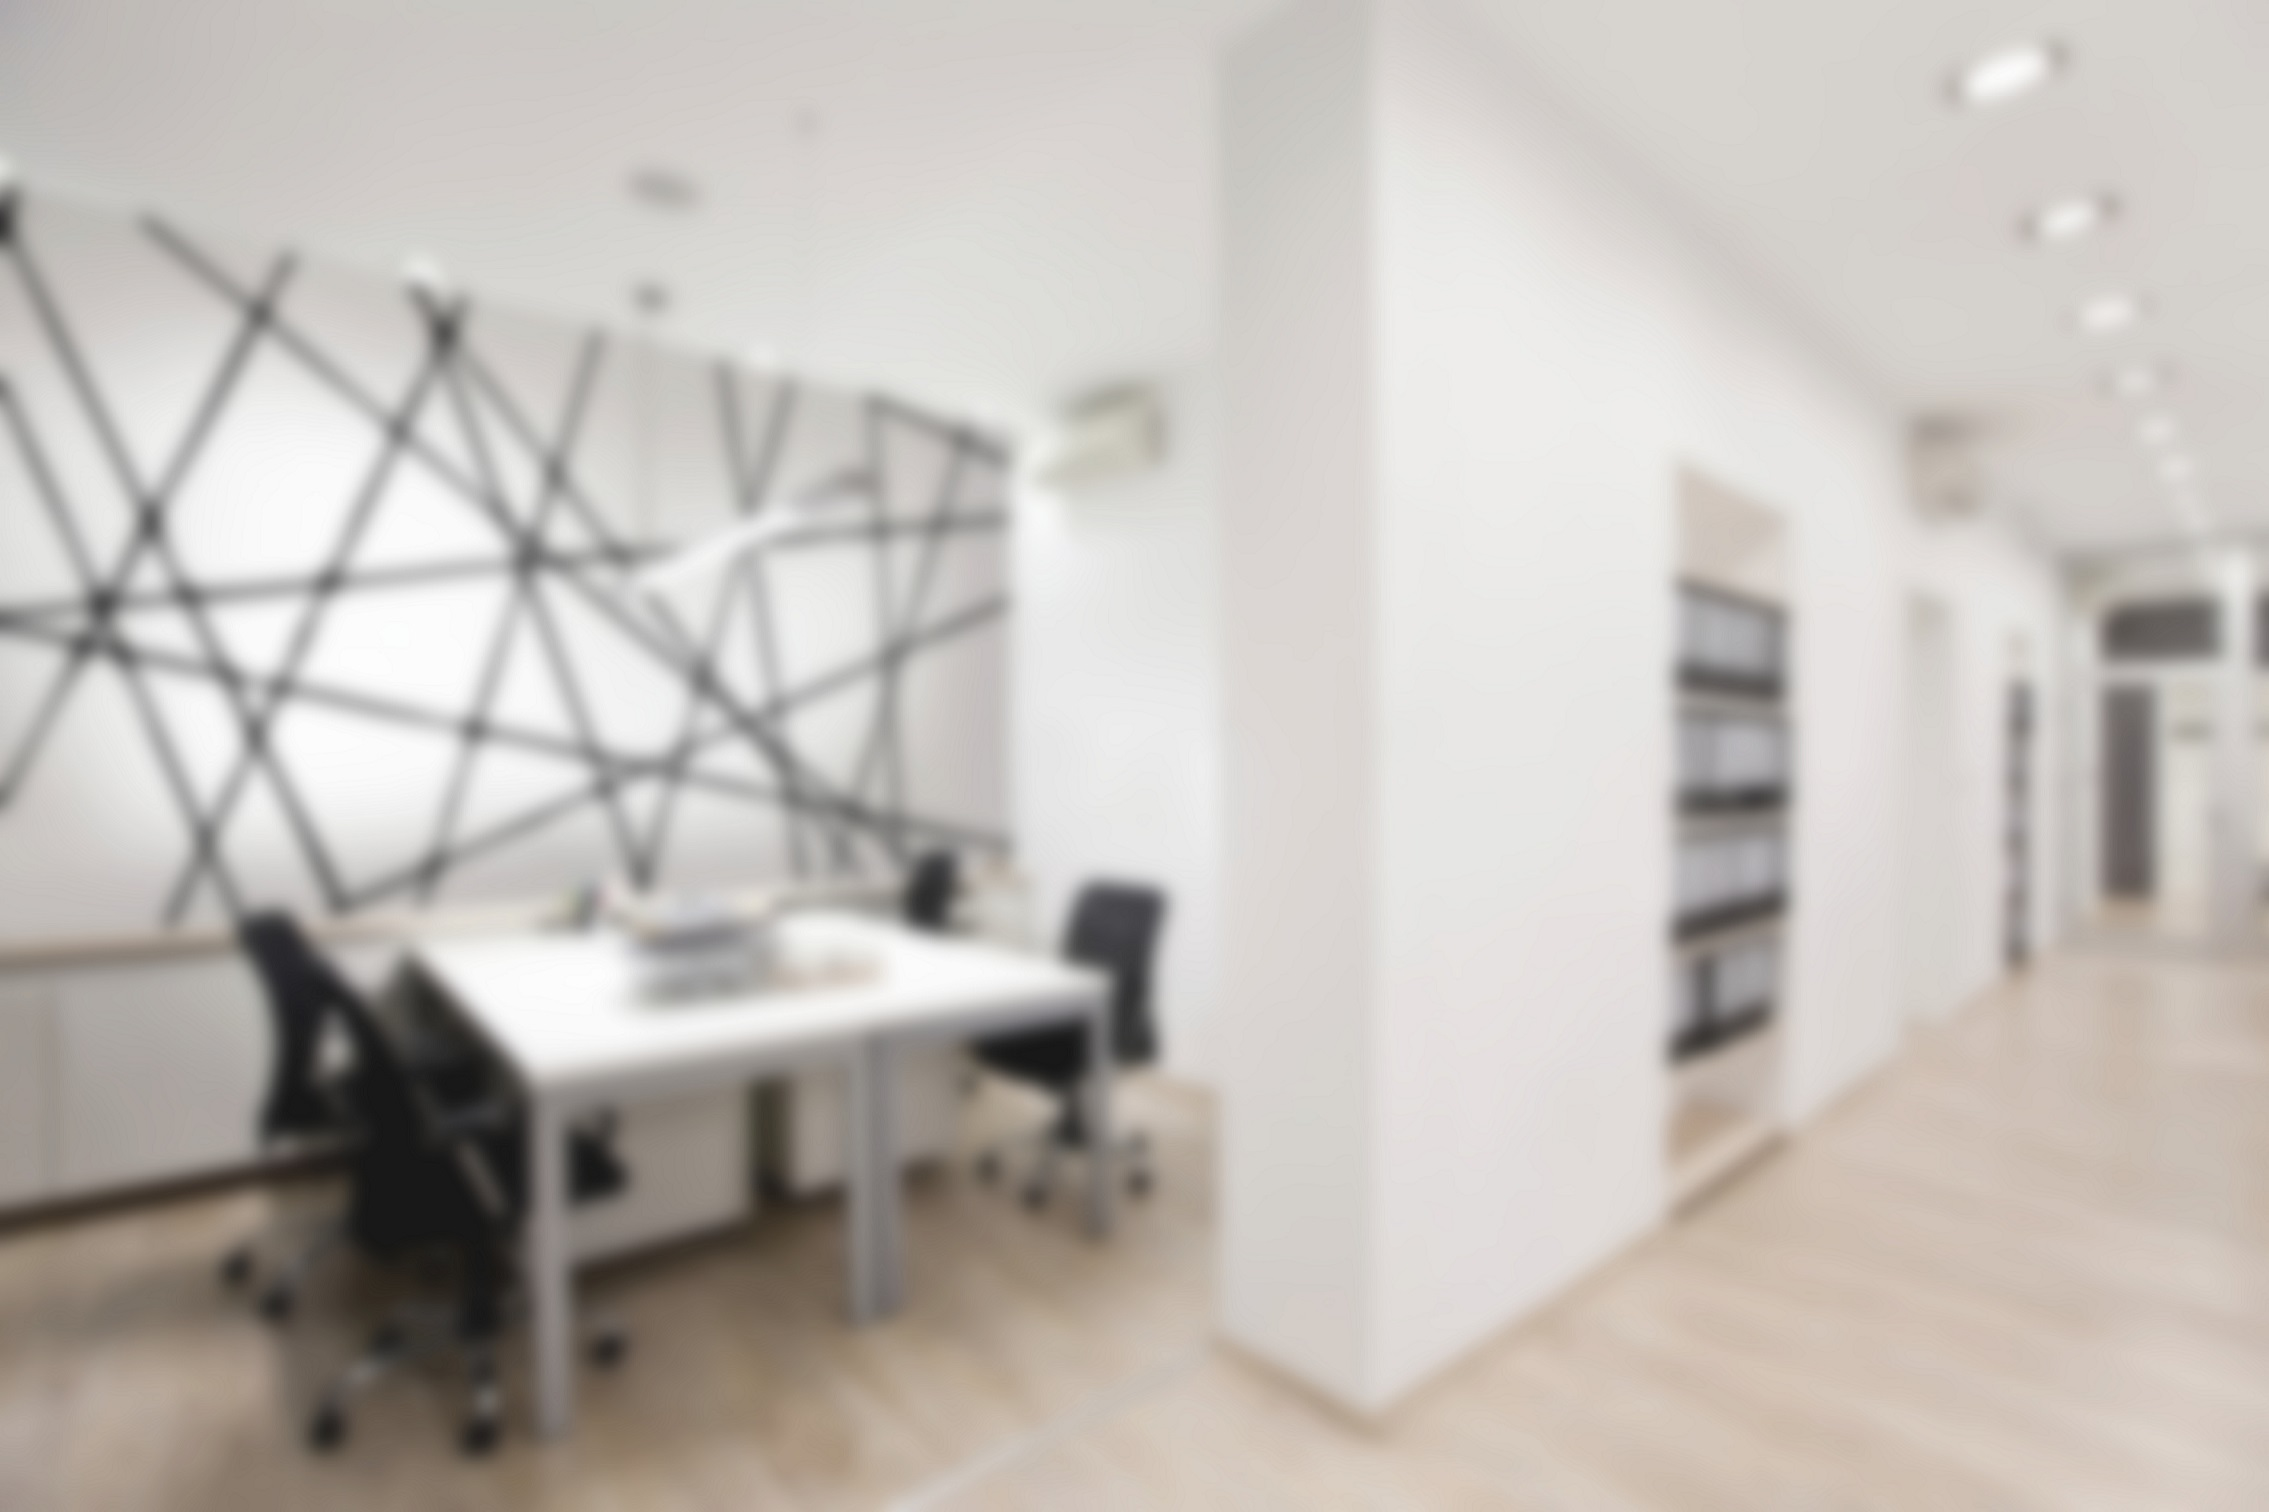
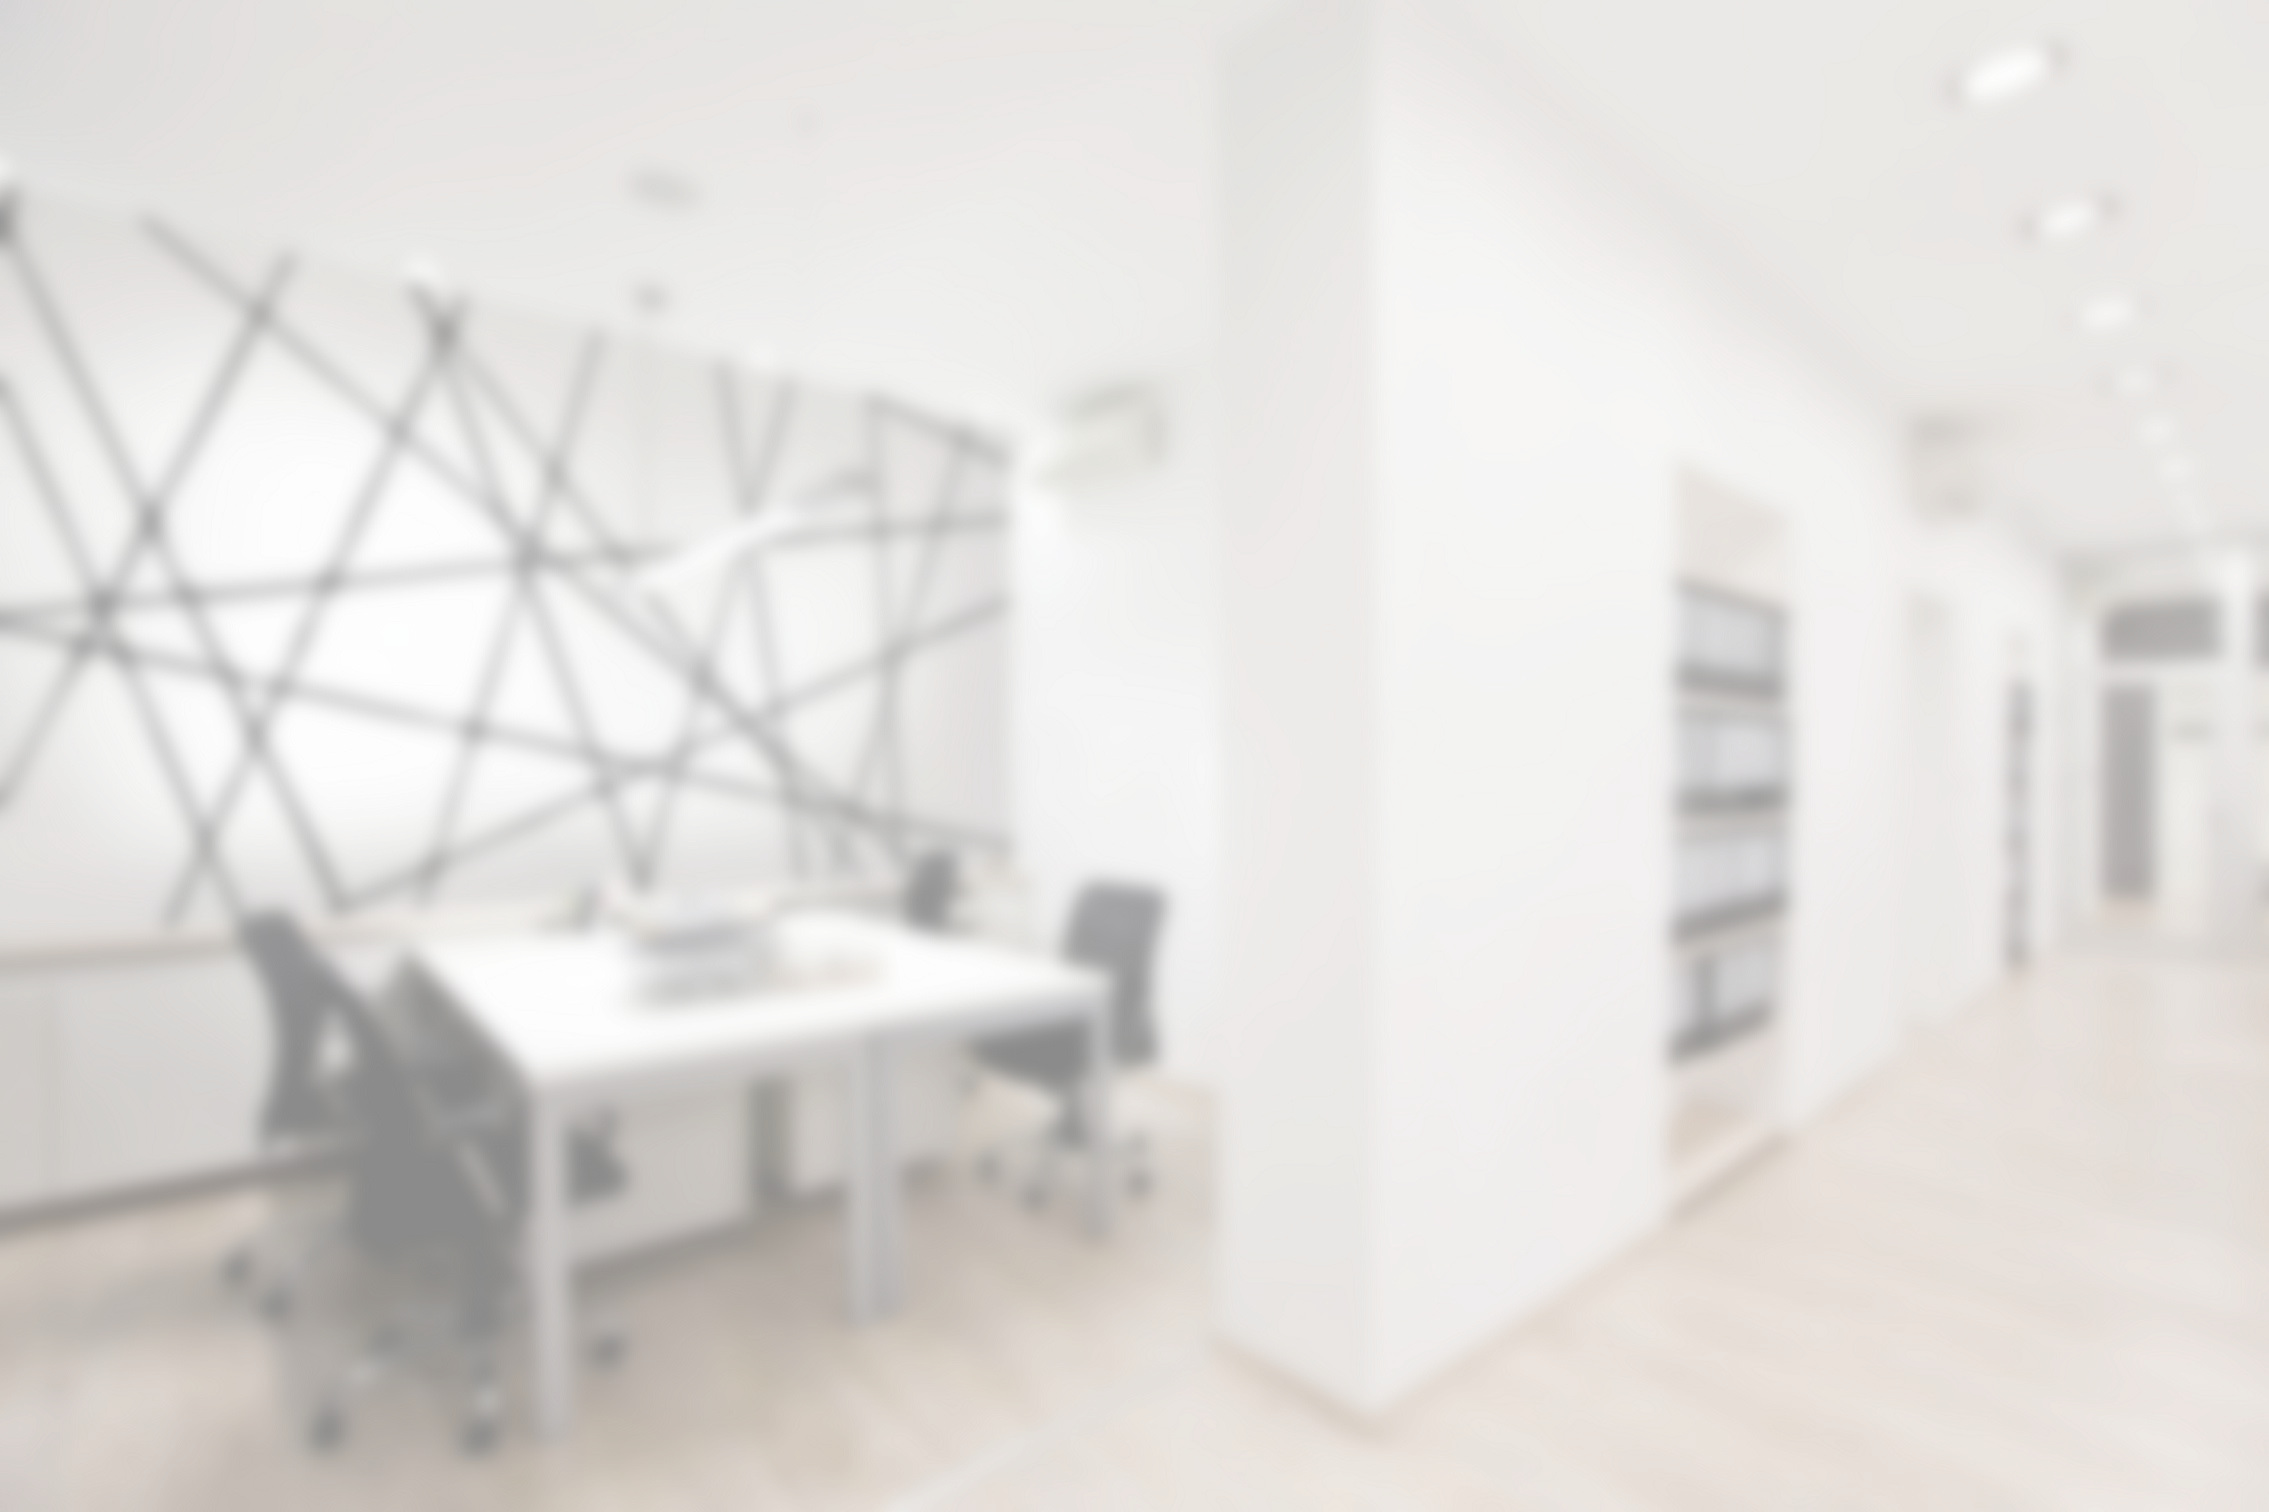
Dodanie stylu do wszyskich stron..
Zrobienie formularza do dodawania klienta
Rozjaśnienie tła, żeby teskt był lepiej widoczny

diff --git a/src/main/java/pl/helpdesk/pages/AgentCompEmployeesAdd.html b/src/main/java/pl/helpdesk/pages/AgentCompEmployeesAdd.html
@@ -7,42 +7,56 @@
 </head>
 <body>
 <wicket:extend>
-<div class="container">
-	<h2>Wpisz poprawne dane, aby dodać pracownika:</h2>
+<div class="container-fluid">
+<div id="tytul_strony">Dodaj współpracownika</div>
+</div>
+<div class="container" >
 	<br />
-			<form wicket:id="creating">
-				<table class="table-striped">
-					<tr>
-						<td>Imię:</td>
-						<td><input type="text" size="30" wicket:id="imie" /></td>
-						<td><font color="B04862"><b><span wicket:id="badname"></span></b></font></td>
-					</tr>
-					<tr>
-						<td>Nazwisko:</td>
-						<td><input type="text" size="30" wicket:id="nazwisko" /></td>
-						<td><font color="B04862"><b><span wicket:id="badsurname"></span></b></font></td>
-					</tr>
-					<tr>
-						<td>E-mail:</td>
-						<td><input type="text" size="30" wicket:id="email" /></td>
-						<td><font color="B04862"><b><span wicket:id="emailExist"></span><span style="color: B04862"
-							wicket:id="bademail"></span></b></font></td>
-					</tr>
-					<tr>
-						<td>Login:</td>
-						<td><input type="text" size="30" wicket:id="login" /></td>
-						<td><font color="B04862"><b><span wicket:id="userExist"></span><span
-							  wicket:id="loginlength"></span></b></font></td>
-					</tr>
-					<tr>
-						<td>Hasło:</td>
-						<td><input type="password" size="30" wicket:id="haslo" /></td>
-						<td><font color="B04862"><b><span wicket:id="passlength"></span></b></font></td>
-					</tr>
-				</table>
-				<input type="submit" class="przycisk" id="przycisk" value="Utwórz" />
+			<form wicket:id="creating" role="form" class="form-horizontal" id="form_dodawanieUsera">
+			<div class="row">
+				<div class="form-group">
+						<label class="col-sm-3 control-label" for="imie">Imię:</label>
+						<div class="col-sm-5"><input type="text" size="40" wicket:id="imie" class="form-control" name="imie" placeholder="Imię"></div>
+						<div class="col-sm-4"><font color="B04862"><b><span wicket:id="badname"></span></b></font></div>
+				</div>
+			</div>
+			<div class="row">		
+				<div class="form-group">
+						<label class="col-sm-3 control-label" for="nazwisko">Nazwisko:</label>
+						<div class="col-sm-5"><input type="text" size="40" wicket:id="nazwisko" class="form-control" name="nazwisko" placeholder="Nazwisko"></div>
+						<div class="col-sm-4"><font color="B04862"><b><span wicket:id="badsurname"></span></b></font></div>
+					</div>
+			</div>		
+			<div class="row">		
+				<div class="form-group">
+						<label class="col-sm-3 control-label" for="email">E-mail:</label>
+						<div class="col-sm-5"><input type="text" size="40" wicket:id="email" class="form-control" name="email" placeholder="E-mail"></div>
+						<div class="col-sm-4"><font color="B04862"><b><span wicket:id="emailExist"></span>
+						<span wicket:id="bademail"></span></b></font></div>
+											</div>
+			</div>		
+			<div class="row">		
+				<div class="form-group">			
+						<label class="col-sm-3 control-label" for="login">Login:</label>
+						<div class="col-sm-5"><input type="text" size="40" wicket:id="login" class="form-control" name="login" placeholder="Login"></div>
+						<div class="col-sm-4"><font color="B04862"><b><span wicket:id="userExist"></span>
+						<span wicket:id="loginlength"></span></b></font></div>
+											</div>
+			</div>		
+			<div class="row">		
+				<div class="form-group">
+						<label class="col-sm-3 control-label" for="haslo">Hasło:</label>
+						<div class="col-sm-5"><input type="password" size="40" wicket:id="haslo" class="form-control" name="haslo" placeholder="Hasło"></div>
+						<div class="col-sm-4"><font color="B04862"><b><span wicket:id="passlength"></span></b></font></div>
+											</div>
+			</div>		
+		<br />
+		<div class="row">	
+		<div class="col-sm-3"></div>
+		<div class="col-sm-5"><font size="6"><span wicket:id="przeszlo"></span></font></div>
+		<div class="col-sm-4"><input type="submit" class="przycisk" id="przycisk" value="Utwórz" /></div>
+		</div>
 			</form>
-			<br /> <font size="6"><span wicket:id="przeszlo"></span></font>
 
 </div>
 </wicket:extend>

diff --git a/src/main/java/pl/helpdesk/pages/AgentFinalPage.html b/src/main/java/pl/helpdesk/pages/AgentFinalPage.html
@@ -1,4 +1,4 @@
-<!DOCTYPE html>
+<?xml version="1.0" encoding="UTF-8"?><!DOCTYPE html>
 <html>
 <head>
 <meta charset="UTF-8">
@@ -6,8 +6,11 @@
 </head>
 <body>
 <wicket:extend>
+<div class="container-fluid">
+<div id="tytul_strony">Witaj w panelu Przedstawiciela, <span wicket:id="username" id="msg"></span></div>
+</div>
 <div class="container">
-To jest Strona po zalogowaniu przedstawiciela
+To jest Strona po zalogowaniu przedstwawiciela
 </div>
 </wicket:extend>
 </body>

diff --git a/src/main/webapp/komponenty.css b/src/main/webapp/komponenty.css
@@ -13,10 +13,14 @@ and open the template in the editor.
 body{
  background-image:url("biuro.jpg");
  font-family: 'Josefin Sans', sans-serif;
-//background-size: 100%;
-background-position: center;
-background-attachment: fixed;
-background-repeat: no-repeat;
+ background-position: center;
+ background-attachment: fixed;
+ background-repeat: no-repeat;
+}
+
+#form_dodawanieUsera{
+	font-size:18px;
+    font-family: 'Josefin Sans', sans-serif;
 }
 
 .przycisk{

diff --git a/src/main/java/pl/helpdesk/pages/MyIssue.html b/src/main/java/pl/helpdesk/pages/MyIssue.html
@@ -1,4 +1,4 @@
-<!DOCTYPE html>
+<?xml version="1.0" encoding="UTF-8"?><!DOCTYPE html>
 <html>
 <head>
 <meta charset="UTF-8">
@@ -6,6 +6,9 @@
 </head>
 <body>
 <wicket:extend>
+<div class="container-fluid">
+<div id="tytul_strony">Moje ogłoszenia</div>
+</div>
 <div class="container">
 <span wicket:id="alert"></span>
 <button type="button" class="btn btn-success" wicket:id="addIssue">Dodaj nowe zgłoszenie</button>

diff --git a/src/main/java/pl/helpdesk/pages/EmployeeFinalPage.html b/src/main/java/pl/helpdesk/pages/EmployeeFinalPage.html
@@ -1,4 +1,4 @@
-<!DOCTYPE html>
+<?xml version="1.0" encoding="UTF-8"?><!DOCTYPE html>
 <html>
 <head>
 <meta charset="UTF-8">
@@ -6,6 +6,9 @@
 </head>
 <body>
 <wicket:extend>
+<div class="container-fluid">
+<div id="tytul_strony">Witaj w panelu Pracownika, <span wicket:id="username" id="msg"></span></div>
+</div>
 <div class="container">
 To jest Strona po zalogowaniu pracownika
 </div>

diff --git a/src/main/java/pl/helpdesk/pages/ClientFinalPage.html b/src/main/java/pl/helpdesk/pages/ClientFinalPage.html
@@ -1,4 +1,4 @@
-<!DOCTYPE html>
+<?xml version="1.0" encoding="UTF-8"?><!DOCTYPE html>
 <html>
 <head>
 <meta charset="UTF-8">
@@ -6,6 +6,9 @@
 </head>
 <body>
 <wicket:extend>
+<div class="container-fluid">
+<div id="tytul_strony">Witaj w panelu Klienta, <span wicket:id="username" id="msg"></span></div>
+</div>
 <div class="container">
 To jest Strona po zalogowaniu klienta
 </div>

diff --git a/src/main/java/pl/helpdesk/pages/AdminFinalPage.html b/src/main/java/pl/helpdesk/pages/AdminFinalPage.html
@@ -7,7 +7,7 @@
 <body>
 <wicket:extend>
 <div class="container-fluid">
-<div id="tytul_strony">Witaj, <span wicket:id="username" id="msg"></span></div>
+<div id="tytul_strony">Witaj w panelu Administratora, <span wicket:id="username" id="msg"></span></div>
 </div>
 <div class="container">
 To jest Strona po zalogowaniu admina

diff --git a/src/main/java/pl/helpdesk/pages/AdminSuccessPage.html b/src/main/java/pl/helpdesk/pages/AdminSuccessPage.html
@@ -1,4 +1,4 @@
-<!DOCTYPE html>
+<?xml version="1.0" encoding="UTF-8"?><!DOCTYPE html>
 <html>
 <head>
 <meta charset="UTF-8">

diff --git a/src/main/java/pl/helpdesk/pages/AgentSuccessPage.html b/src/main/java/pl/helpdesk/pages/AgentSuccessPage.html
@@ -1,4 +1,4 @@
-<!DOCTYPE html>
+<?xml version="1.0" encoding="UTF-8"?><!DOCTYPE html>
 <html>
 <head>
 <meta charset="UTF-8">

diff --git a/src/main/java/pl/helpdesk/pages/ClientSuccessPage.html b/src/main/java/pl/helpdesk/pages/ClientSuccessPage.html
@@ -1,4 +1,4 @@
-<!DOCTYPE html>
+<?xml version="1.0" encoding="UTF-8"?><!DOCTYPE html>
 <html>
 <head>
 <meta charset="UTF-8">

diff --git a/src/main/java/pl/helpdesk/pages/EmployeeSuccessPage.html b/src/main/java/pl/helpdesk/pages/EmployeeSuccessPage.html
@@ -1,4 +1,4 @@
-<!DOCTYPE html>
+<?xml version="1.0" encoding="UTF-8"?><!DOCTYPE html>
 <html>
 <head>
 <meta charset="UTF-8">

diff --git a/src/main/java/pl/helpdesk/pages/AdminSuccessPage.java b/src/main/java/pl/helpdesk/pages/AdminSuccessPage.java
@@ -22,23 +22,24 @@ public abstract class AdminSuccessPage extends WebPage {
 	
 	public AdminSuccessPage(PageParameters parameters){
 		HashMap<String, String> options = new HashMap<String, String>();
-		options.put("Lista pracowników", "employeeList");
-		options.put("Dodaj pracownika", "employeeAdd");
+		options.put("Lista pracowników", "adminEmployeeList");
+		options.put("Dodaj pracownika", "adminEmployeeAdd");
 		INavbarComponent pracownicy = new Dropdown("<span class=\"glyphicon glyphicon-user\"></span> Pracownicy",
 				options);
 		options.clear();
-		options.put("Lista firm", "companyList");
+		options.put("Lista firm", "adminCompanyList");
+		options.put("Dodaj firmę", "adminCompanyAdd");
 		INavbarComponent firmy = new Dropdown("<span class=\"glyphicon glyphicon-briefcase\"></span> Firmy", options);
 		options.clear();
-		options.put("Moj Profil", "MyProfile");
-		options.put("Edytuj", "Edit");
+		options.put("Moj Profil", "adminMyProfile");
+		options.put("Edytuj", "adminEditProfile");
 		INavbarComponent mojProfil = new Dropdown("<span class=\"glyphicon glyphicon-user\"></span> Mój Profil",
 				options);
 		options.clear();
-		options.put("Statystyki pracowników", "employeeStats");
-		options.put("Statystyki firm", "companiesStats");
-		options.put("Statystyki przedstawicieli", "agentsStats");
-		options.put("Statystyki klientów", "clientsStats");
+		options.put("Statystyki pracowników", "AdminEmployeeStats");
+		options.put("Statystyki firm", "AdminCompaniesStats");
+		options.put("Statystyki przedstawicieli", "AdminAgentsStats");
+		options.put("Statystyki klientów", "AdminClientsStats");
 		INavbarComponent statystyki = new Dropdown("<span class=\"glyphicon glyphicon-stats\"></span> Statystyki",
 				options);
 		navComponent.add(pracownicy);
